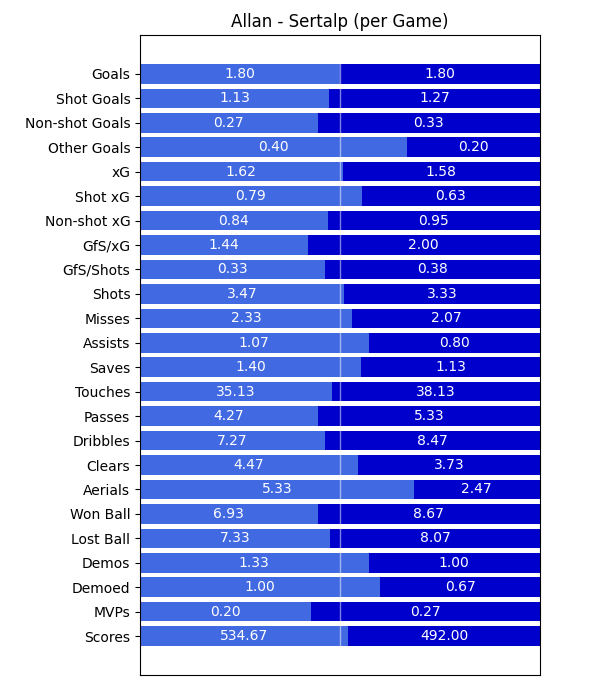
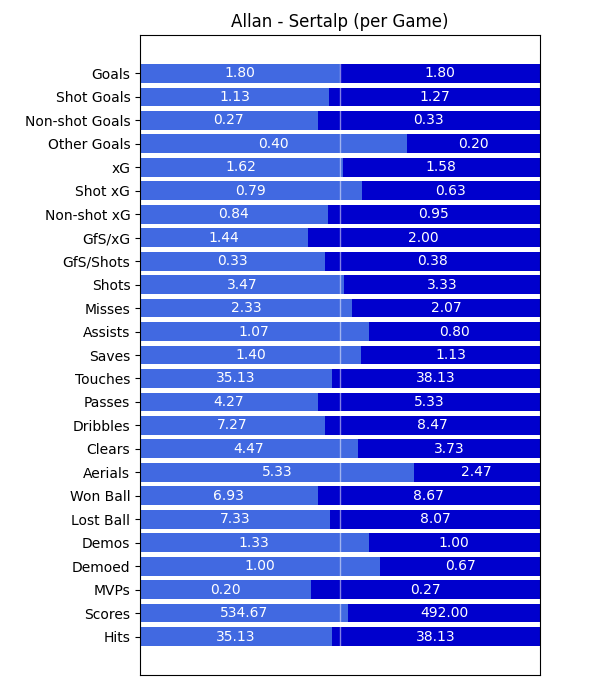
Added stats & records on hits

Changed region(s): [[0.061, 0.0906, 0.9153, 0.9367]]

diff --git a/src/boxcarstest.py b/src/boxcarstest.py
@@ -377,6 +377,11 @@ for i in range(0, 2):
     your_goals_from_shots_over_time = []
     their_goals_from_shots_over_time = []
 
+    my_hits_over_time = []
+    our_hits_over_time = []
+    your_hits_over_time = []
+    their_hits_over_time = []
+
     my_goals_from_shots = 0
     your_goals_from_shots = 0
     their_goals_from_shots = 0
@@ -406,6 +411,12 @@ for i in range(0, 2):
     your_shots_goal_or_miss = []
     our_shots_goal_or_miss = []
     their_shots_goal_or_miss = []
+
+    my_hit_count = 0
+    your_hit_count = 0
+    their_hit_count = 0
+
+
 
     for file in new_json_files:
         file_counter += 1
@@ -445,6 +456,10 @@ for i in range(0, 2):
             our_local_xg_per_hit = []
             their_local_xg_per_hit = []
 
+            my_local_hits = 0
+            your_local_hits = 0
+            their_local_hits = 0
+
             for col in range(ncols):
                 for row in range(0, nrows):
                     if my_list[0][col] == "shot_taker_name":
@@ -464,6 +479,8 @@ for i in range(0, 2):
                                 their_local_xg_per_hit.append(float(my_list[row][4]))
 
                             if my_list[row][col] == my_name:
+                                my_hit_count += 1
+                                my_local_hits += 1
                                 my_local_xg += float(my_list[row][4])
                                 my_total_xg += float(my_list[row][4])
 
@@ -496,6 +513,8 @@ for i in range(0, 2):
                                     my_xg_per_miss_list.append(float(my_list[row][4]))
 
                             elif my_list[row][col] == your_name:
+                                your_hit_count += 1
+                                your_local_hits += 1
                                 your_local_xg += float(my_list[row][4])
                                 your_total_xg += float(my_list[row][4])
 
@@ -525,7 +544,8 @@ for i in range(0, 2):
                                     your_xg_per_miss_list.append(float(my_list[row][4]))
 
                             else:
-
+                                their_hit_count += 1
+                                their_local_hits += 1
                                 their_local_xg += float(my_list[row][4])
                                 their_total_xg += float(my_list[row][4])
 
@@ -622,6 +642,8 @@ for i in range(0, 2):
             your_local_score = 0
             opp1_local_score = 0
             opp2_local_score = 0
+
+
 
             for i in data["players"]:
                 if i["id"]["id"] != my_id and i["id"]["id"] != your_id:
@@ -976,6 +998,12 @@ for i in range(0, 2):
             your_nonshot_xg_over_time.append(your_local_nonshot_xg)
             their_nonshot_xg_over_time.append(their_local_nonshot_xg)
 
+            my_hits_over_time.append(my_local_hits)
+            your_hits_over_time.append(your_local_hits)
+            our_hits_over_time.append(my_local_hits + your_local_hits)
+            their_hits_over_time.append(their_local_hits)
+
+
             local_wentOvertime = False
 
             # check if game went overtime -- only if there is 1 GD between the teams, or 0 GD (FF in OT)
@@ -1166,6 +1194,8 @@ for i in range(0, 2):
     our_goal_count = my_goal_count + your_goal_count
     our_miss_count = my_miss_count + your_miss_count
 
+    our_hit_count = my_hit_count + your_hit_count
+
     my_shot_count = len(my_shots_x)
     your_shot_count = len(your_shots_x)
     our_shot_count = my_shot_count + your_shot_count
@@ -1322,7 +1352,8 @@ for i in range(0, 2):
                        ["Lost Ball", my_turnovers_count, your_turnovers_count],
                        ["Dribbles", my_dribbles_count, your_dribbles_count],
                        ["Aerials", my_aerials_count, your_aerials_count],
-                       ["MVPs", my_mvp_count, your_mvp_count]
+                       ["MVPs", my_mvp_count, your_mvp_count],
+                       ["Hits", my_hit_count, your_hit_count]
                        ]
 
     team_data = [["Goals", our_goal_count, their_goal_count],
@@ -1349,7 +1380,8 @@ for i in range(0, 2):
                  ["Won Ball", our_turnovers_won_count, their_turnovers_won_count],
                  ["Dribbles", our_dribbles_count, their_dribbles_count],
                  ["Aerials", our_aerials_count, their_aerials_count],
-                 ["MVPs", our_mvp_count, their_mvp_count]
+                 ["MVPs", our_mvp_count, their_mvp_count],
+                 ["Hits", our_hit_count, their_hit_count]
                  ]
 
     content = tabulate(individual_data, headers=["Stat", my_alias, your_alias], numalign="right", tablefmt="tsv")
@@ -2335,8 +2367,11 @@ for i in range(0, 2):
                                my_most_consecutive_games_scored_or_assisted_in,
                                your_most_consecutive_games_scored_or_assisted_in],
                               ["Most consecutive matches without a goal involvement",
-                               my_most_consecutive_games_ftsoa_in, your_most_consecutive_games_ftsoa_in]
+                               my_most_consecutive_games_ftsoa_in, your_most_consecutive_games_ftsoa_in],
+                              ["Most hits in one match", max(my_hits_over_time), max(your_hits_over_time)],
+                              ["Least hits in one match", min(my_hits_over_time), min(your_hits_over_time)]
                               ]
+
 
     content = tabulate(individual_record_data, headers=["Record", my_alias, your_alias], numalign="right",
                        tablefmt="tsv")
@@ -2569,7 +2604,9 @@ for i in range(0, 2):
                         ["Likeliest win % in a win", "%.2f" % our_likeliest_win_pct_in_a_win + "%",
                          "%.2f" % their_likeliest_win_pct_in_a_win + "%"],
                         ["Highest team score", our_highest_total_pts, max(their_scores_over_time)],
-                        ["Lowest team score", our_lowest_total_pts, min(their_scores_over_time)]
+                        ["Lowest team score", our_lowest_total_pts, min(their_scores_over_time)],
+                        ["Most hits in one match", max(our_hits_over_time), max(their_hits_over_time)],
+                        ["Least hits in one match", min(our_hits_over_time), min(their_hits_over_time)]
                         ]
 
     content = tabulate(team_record_data, headers=["Record", "Our Team", "Opponents"], numalign="right", tablefmt="tsv")
@@ -2742,7 +2779,7 @@ for i in range(0, 2):
                 my_shot_count, my_miss_count, my_assists_count, my_saves_count, my_touches_count,
                 my_passes_count, my_dribbles_count, my_clears_count, my_aerials_count, my_turnovers_won_count,
                 my_turnovers_count,
-                my_demos_count, my_demos_conceded_count, my_mvp_count, my_score_count]
+                my_demos_count, my_demos_conceded_count, my_mvp_count, my_score_count, my_hit_count]
 
     your_stats = [your_goal_count, your_goals_from_shots, your_goals_from_nonshots, your_other_goals,
                   your_total_xg, your_shot_xg, your_nonshot_xg,
@@ -2750,7 +2787,7 @@ for i in range(0, 2):
                   your_shot_count, your_miss_count, your_assists_count, your_saves_count, your_touches_count,
                   your_passes_count, your_dribbles_count, your_clears_count, your_aerials_count,
                   your_turnovers_won_count, your_turnovers_count,
-                  your_demos_count, your_demos_conceded_count, your_mvp_count, your_score_count]
+                  your_demos_count, your_demos_conceded_count, your_mvp_count, your_score_count, your_hit_count]
 
     my_stats.reverse()
     your_stats.reverse()
@@ -2762,7 +2799,7 @@ for i in range(0, 2):
            8: "GfS/xG", 9: "GfS/Shots",
            10: "Shots", 11: "Misses", 12: "Assists", 13: "Saves", 14: "Touches",
            15: "Passes", 16: "Dribbles", 17: "Clears", 18: "Aerials", 19: "Won Ball", 20: "Lost Ball",
-           21: "Demos", 22: "Demoed", 23: "MVPs", 24: "Scores"}
+           21: "Demos", 22: "Demoed", 23: "MVPs", 24: "Scores", 25: "Hits"}
 
     dic_rev = {len(dic) - i + 1: v for (i, v) in dic.items()}
     dic = dic_rev
@@ -2841,7 +2878,7 @@ for i in range(0, 2):
                    their_shot_count, their_miss_count, their_assists_count, their_saves_count, their_touches_count,
                    their_passes_count, their_dribbles_count, their_clears_count, their_aerials_count,
                    their_turnovers_won_count,
-                   their_demos_count, their_mvp_count, their_score_count]
+                   their_demos_count, their_mvp_count, their_score_count, their_hit_count]
 
     their_stats.reverse()
 
@@ -2852,7 +2889,7 @@ for i in range(0, 2):
            8: "GfS/xG", 9: "GfS/Shots",
            10: "Shots", 11: "Misses", 12: "Assists", 13: "Saves", 14: "Touches",
            15: "Passes", 16: "Dribbles", 17: "Clears", 18: "Aerials", 19: "Won Ball",
-           20: "Demos", 21: "MVPs", 22: "Scores"}
+           20: "Demos", 21: "MVPs", 22: "Scores", 23: "Hits"}
 
     dic_rev = {len(dic) - i + 1: v for (i, v) in dic.items()}
     dic = dic_rev
